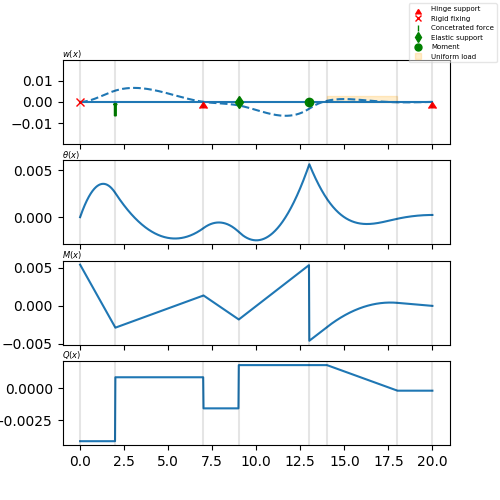
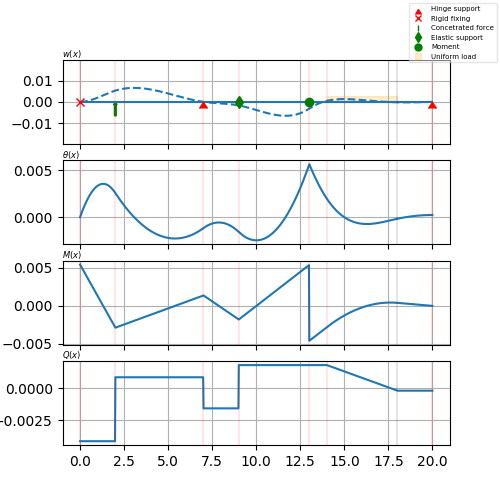
Add grid

diff --git a/scripts/graphics.py b/scripts/graphics.py
@@ -29,7 +29,7 @@ def make_markers(axe, terms, y, balk_size):
 def make_vertical_lines(axes, terms, balk_size):
     for term in terms:
         for axe in axes:
-            axe.axvline(term[1], c='k', alpha=0.1)
+            axe.axvline(term[1], c='red', alpha=0.1)
             if term[0] == "Q":
                 axe.axvline(term[2], c='k', alpha=0.1)
 
@@ -50,24 +50,28 @@ def show(balk_size, segment_length, E, J, terms, output_dir):
                     np.zeros(shape=len(y)), color='C0')
         make_markers(axe[0], terms, y, balk_size)
         axe[0].set_title(r"$w(x)$", size=6, loc="left", pad=2)
+        axe[0].grid()
 
         y = []
         for num in f2:
             y.append(float(num))
         axe[1].plot(np.linspace(0, balk_size, len(y)), np.array(y))
         axe[1].set_title(r"$\theta(x)$", size=6, loc="left", pad=2)
+        axe[1].grid()
 
         y = []
         for num in f3:
             y.append(float(num))
         axe[2].plot(np.linspace(0, balk_size, len(y)), np.array(y))
         axe[2].set_title(r"$M(x)$", size=6, loc="left", pad=2)
+        axe[2].grid()
 
         y = []
         for num in f4:
             y.append(float(num))
         axe[3].plot(np.linspace(0, balk_size, len(y)), np.array(y))
         axe[3].set_title(r"$Q(x)$", size=6, loc="left", pad=2)
+        axe[3].grid()
 
         make_vertical_lines(axe, terms, balk_size)
         hinge_support = mlines.Line2D([], [], color='red', marker=6, linestyle='None',

diff --git a/README.md b/README.md
@@ -54,7 +54,7 @@ If all is OK, you will see a very cool picture of the deformed balk. Also this c
 ls outputs
 ```
 ```
-image.png  output1.txt  output2.txt  output3.txt output4.txt
+image.png  out1.txt  out2.txt  out3.txt out4.txt
 ```
 ##### image.png:
 
